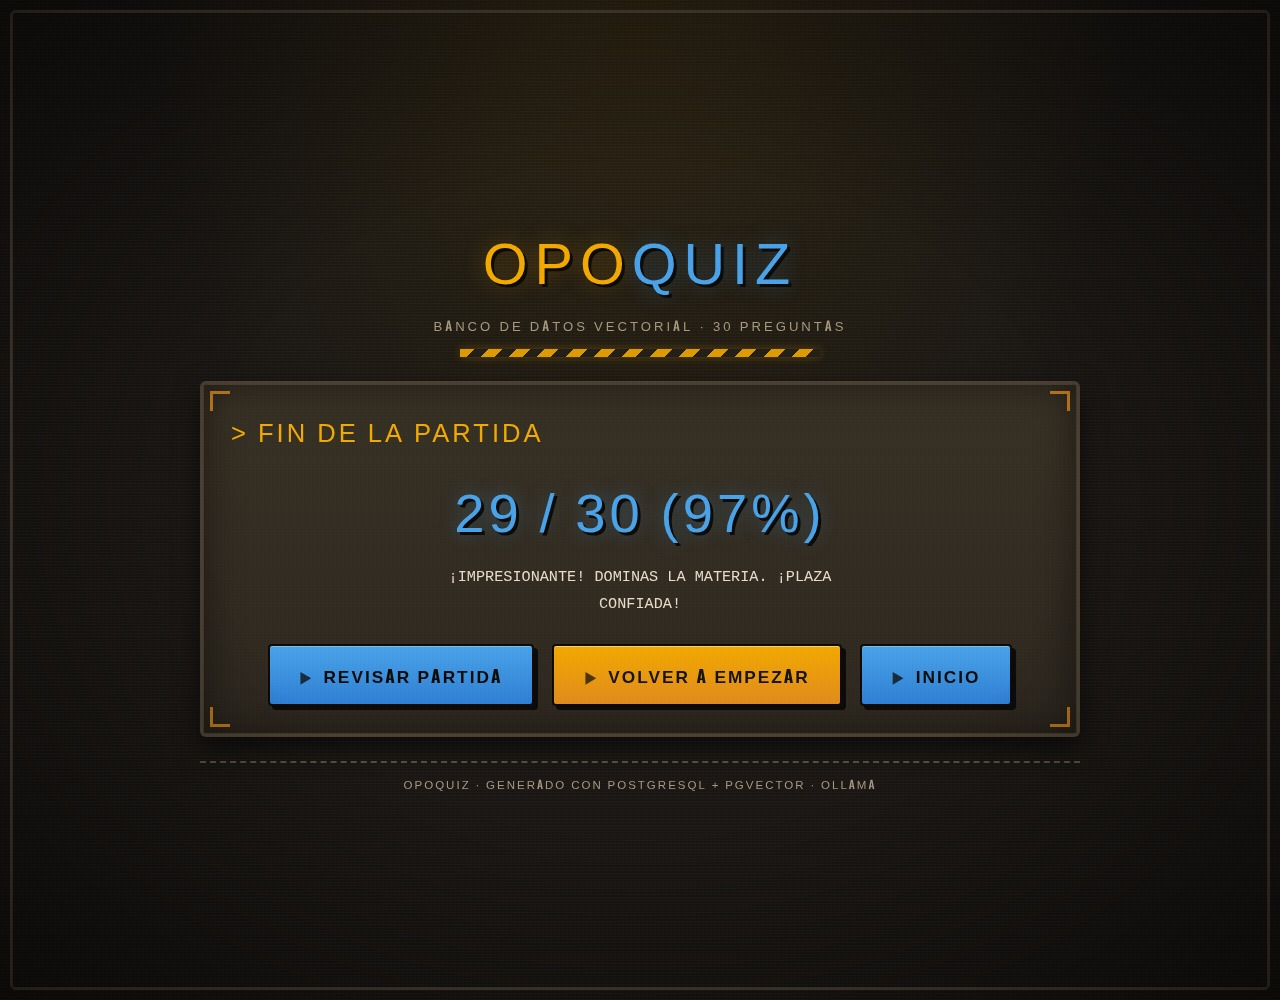
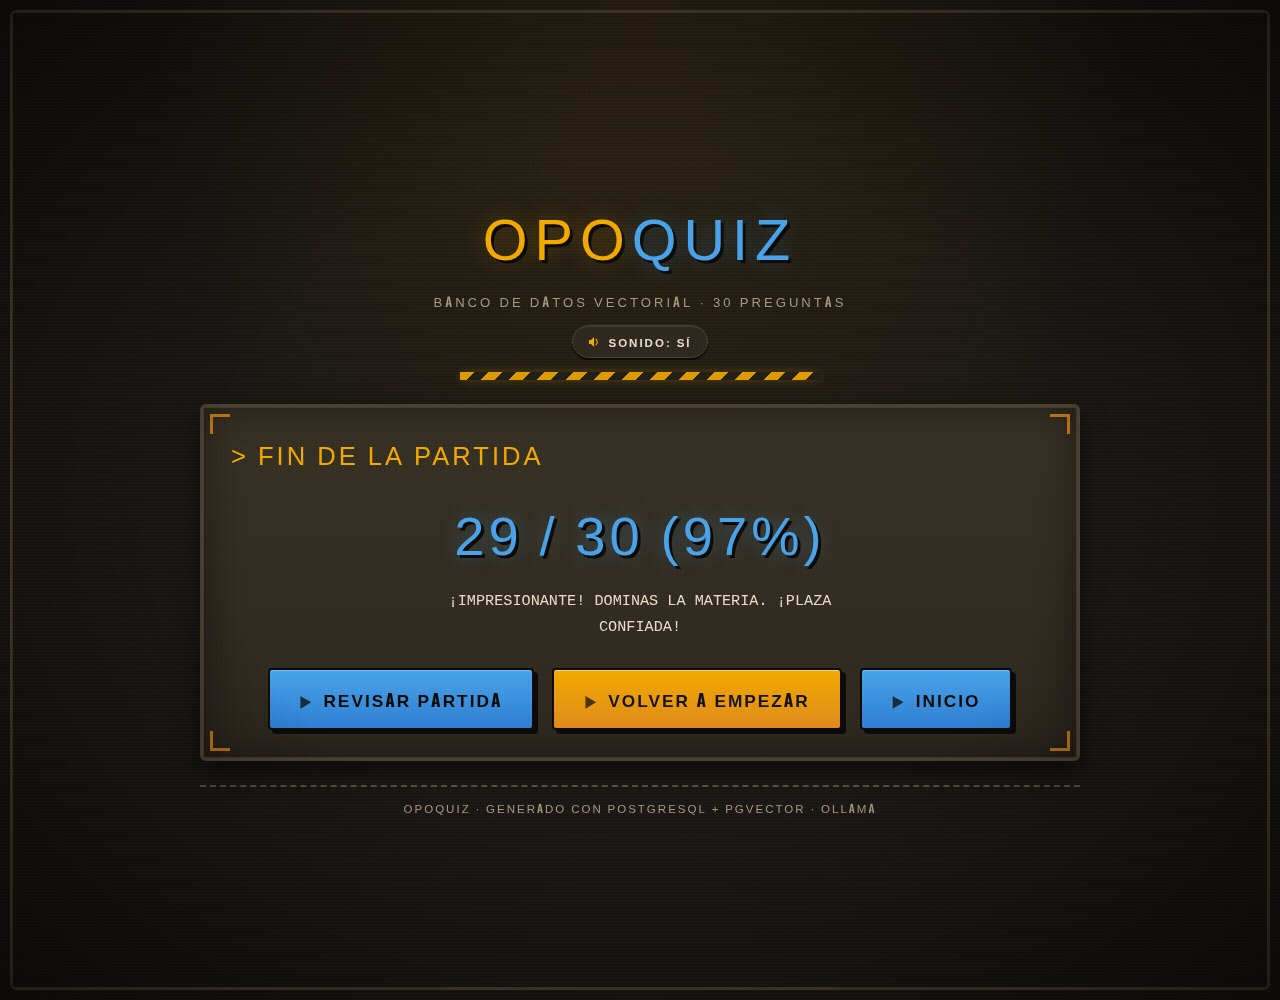
Capturas del README con el control de sonido y pruebas en serie
Capturas regeneradas para que enseñen la placa SONIDO: SÍ que se añadió
con la spec 006 (hasta ahora el README describía una interfaz que ya no
era exactamente la de las imágenes). Se rehacen las siete con la misma
partida, para que las cifras cuadren entre ellas:

- inicio.jpg: historial con la partida jugada (29/1, con su botón
  REVISAR) y las tres de ejemplo
- quiz-inicio.jpg: pregunta sin contestar, sin ningún color
- quiz-fallo.jpg: elegida en rojo con ✗, correcta en verde con ✓ y
  explicación
- quiz-acierto.jpg: solo la correcta en verde y explicación
- final.jpg: 29 / 30 (97 %) con REVISAR PARTIDA, VOLVER A EMPEZAR e INICIO
- revision.jpg: esa misma partida (29 aciertas, 1 fallo)
- movil-quiz.jpg: a 390 px, con la correcta en verde y la explicación

Pruebas en serie (workers: 1)
- El test de historial fallaba de forma intermitente: todas las pruebas
  comparten el servidor y data/partidas-test.json, y varias juegan
  partidas que se registran solas mientras otras vacían el fichero. En
  paralelo se pisaban; una prueba nueva que termina partida lo hacía más
  probable.
- Ahora se ejecutan de una en una: 45/45 en tres pasadas seguidas, 1,3
  minutos por pasada. Se documenta en el README y en el propio config.

Changed region(s): [[0.1562, 0.496, 0.8438, 0.837], [0.1562, 0.217, 0.8438, 0.465]]

diff --git a/playwright.config.js b/playwright.config.js
@@ -21,6 +21,12 @@ module.exports = defineConfig({
     testDir: './tests',
     timeout: 60000,
     reporter: [['list']],
+    // Las pruebas comparten un único servidor y un único fichero de historial
+    // (data/partidas-test.json): varias de ellas lo vacían y otras juegan
+    // partidas que se registran solas. En paralelo se pisan entre sí y
+    // aparecen fallos intermitentes, así que se ejecutan de una en una.
+    // Se pierden unos segundos, se gana un resultado fiable.
+    workers: 1,
     use: {
         baseURL: `http://127.0.0.1:${PUERTO_PRUEBAS}`,
         headless: true,

diff --git a/README.md b/README.md
@@ -121,6 +121,12 @@ navegador sin altavoces: comprueban los contadores que expone
 ninguno con el sonido apagado) y que, sin Web Audio, la partida sigue
 funcionando. En total son **45 pruebas** de Playwright.
 
+Las pruebas se ejecutan **de una en una** (`workers: 1` en
+`playwright.config.js`): comparten un único servidor y un único fichero de
+historial (`data/partidas-test.json`), y varias juegan partidas que se
+registran solas. En paralelo se pisaban entre sí y salían fallos
+intermitentes; en serie tardan algo más, pero el resultado es fiable.
+
 Las pruebas unitarias del generador del pool (sin necesidad de Ollama ni de
 la base de datos) se ejecutan con:
 
